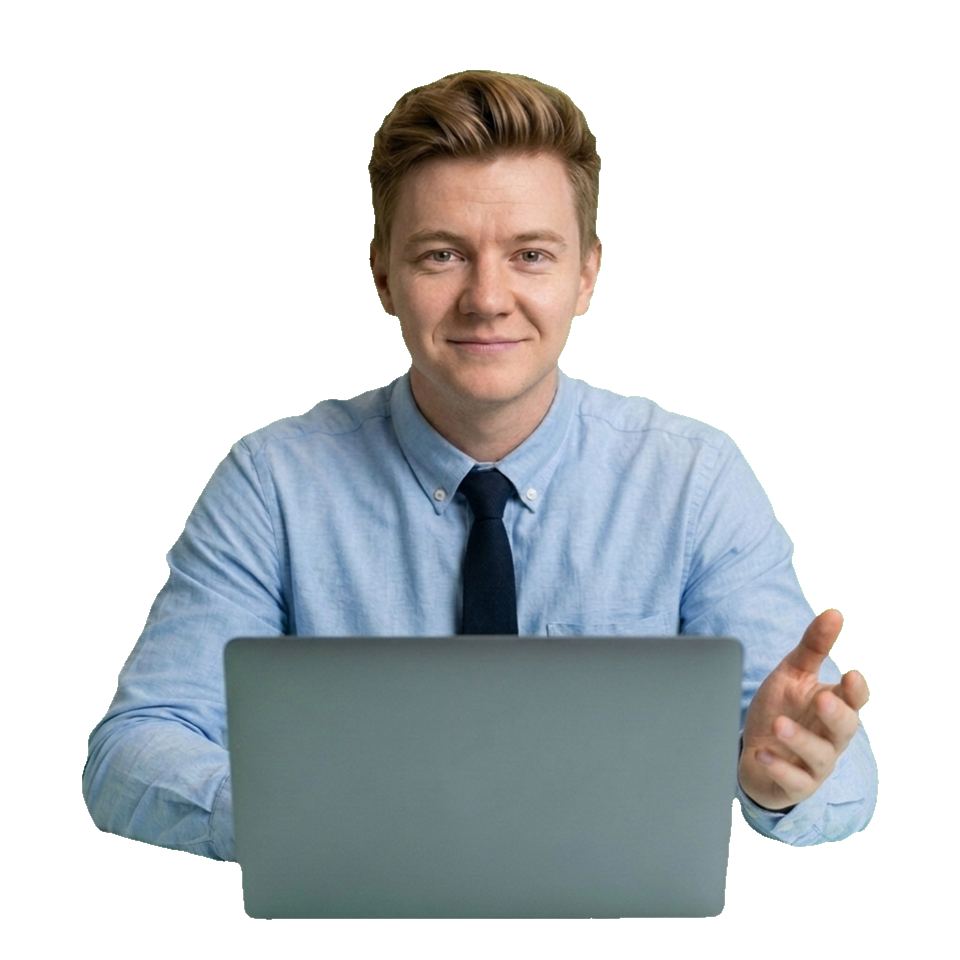
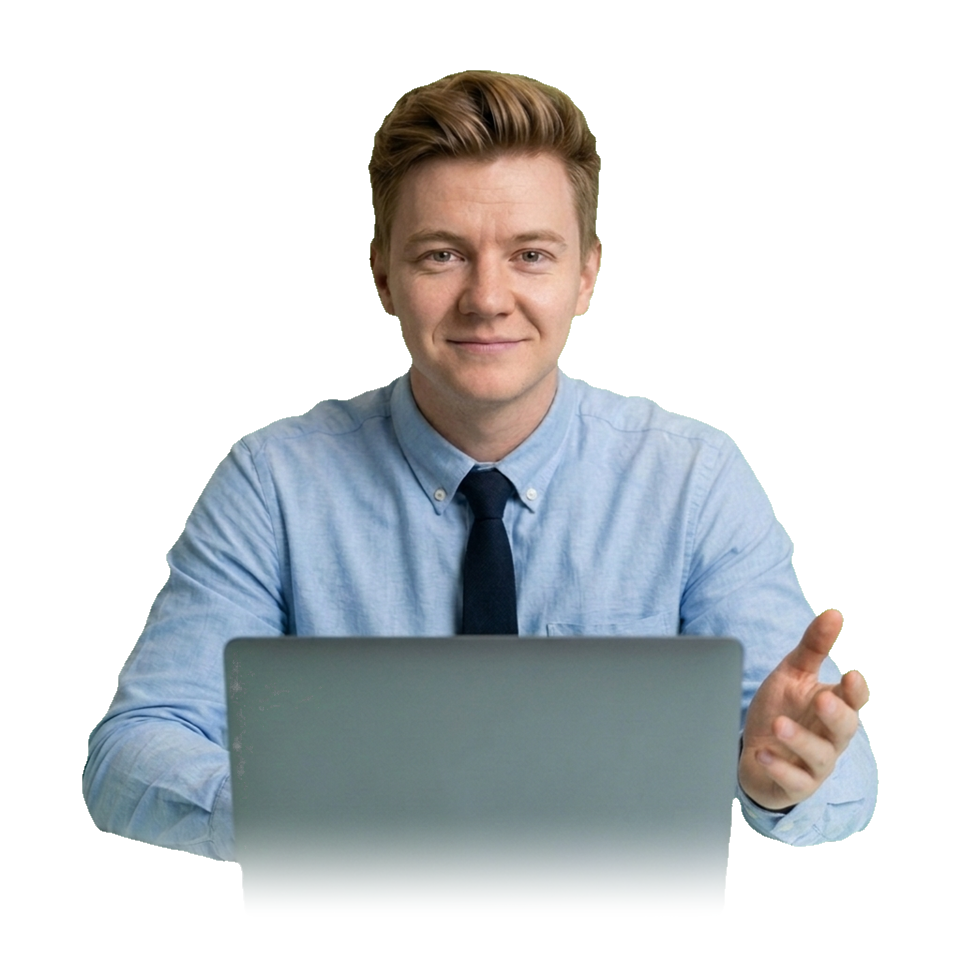
Refactor code structure for improved readability and maintainability

Changed region(s): [[0.125, 0.8438, 0.7812, 0.9688]]

diff --git a/src/components/landing/Cursor.jsx b/src/components/landing/Cursor.jsx
@@ -1,13 +1,12 @@
 import React, { useEffect, useRef, useState } from 'react';
 
 /**
- * Custom glowing brand-secondary (#5EEAD4) cursor that expands
- * over buttons and links. Automatically hidden on touch devices
- * and when prefers-reduced-motion is active.
+ * Simple, understated glowing cursor accent:
+ * Uses the native crisp OS pointer/hand cursor with a subtle soft
+ * brand-secondary (#5EEAD4) ambient glow that brightens gently on hover.
  */
 export default function Cursor({ disabled = false }) {
-  const ringRef = useRef(null);
-  const dotRef = useRef(null);
+  const glowRef = useRef(null);
   const visibleRef = useRef(false);
   const [isActive, setIsActive] = useState(false);
   const [visible, setVisible] = useState(false);
@@ -16,17 +15,12 @@ export default function Cursor({ disabled = false }) {
     if (disabled || typeof window === 'undefined') return undefined;
     if (!window.matchMedia('(pointer: fine)').matches) return undefined;
 
-    const pos = { x: -100, y: -100 };
-    const target = { x: -100, y: -100 };
-    let rafId = null;
-
     const onMove = (e) => {
-      target.x = e.clientX;
-      target.y = e.clientY;
+      if (glowRef.current) {
+        glowRef.current.style.transform = `translate3d(${e.clientX}px, ${e.clientY}px, 0) translate(-50%, -50%)`;
+      }
       if (!visibleRef.current) {
         visibleRef.current = true;
-        pos.x = e.clientX;
-        pos.y = e.clientY;
         setVisible(true);
       }
 
@@ -39,29 +33,15 @@ export default function Cursor({ disabled = false }) {
     const onLeave = () => {
       visibleRef.current = false;
       setVisible(false);
-    };
-
-    const loop = () => {
-      pos.x += (target.x - pos.x) * 0.2;
-      pos.y += (target.y - pos.y) * 0.2;
-
-      if (ringRef.current) {
-        ringRef.current.style.transform = `translate3d(${pos.x}px, ${pos.y}px, 0) translate(-50%, -50%)`;
-      }
-      if (dotRef.current) {
-        dotRef.current.style.transform = `translate3d(${target.x}px, ${target.y}px, 0) translate(-50%, -50%)`;
-      }
-      rafId = requestAnimationFrame(loop);
+      setIsActive(false);
     };
 
     window.addEventListener('mousemove', onMove, { passive: true });
     document.addEventListener('mouseleave', onLeave);
-    rafId = requestAnimationFrame(loop);
 
     return () => {
       window.removeEventListener('mousemove', onMove);
       document.removeEventListener('mouseleave', onLeave);
-      if (rafId) cancelAnimationFrame(rafId);
     };
   }, [disabled]);
 
@@ -70,22 +50,14 @@ export default function Cursor({ disabled = false }) {
   return (
     <div
       aria-hidden="true"
-      className={`pointer-events-none fixed inset-0 z-[90] hidden md:block transition-opacity duration-300 ${
+      className={`pointer-events-none fixed inset-0 z-[90] hidden md:block transition-opacity duration-200 ${
         visible ? 'opacity-100' : 'opacity-0'
       }`}
     >
       <div
-        ref={ringRef}
-        className={`fixed left-0 top-0 rounded-full transition-[width,height,background-color,box-shadow] duration-200 ease-out ${
-          isActive
-            ? 'h-12 w-12 border border-[#5EEAD4]/80 bg-[#5EEAD4]/15 shadow-[0_0_26px_rgba(94,234,212,0.45)]'
-            : 'h-7 w-7 border border-[#5EEAD4]/50 bg-[#5EEAD4]/10 shadow-[0_0_16px_rgba(94,234,212,0.25)]'
-        }`}
-      />
-      <div
-        ref={dotRef}
-        className={`fixed left-0 top-0 rounded-full bg-[#5EEAD4] transition-transform duration-150 ${
-          isActive ? 'h-2 w-2 scale-125' : 'h-1.5 w-1.5 scale-100'
+        ref={glowRef}
+        className={`fixed left-0 top-0 rounded-full bg-[#5EEAD4] blur-xl transition-[width,height,opacity] duration-200 ease-out ${
+          isActive ? 'h-12 w-12 opacity-25' : 'h-7 w-7 opacity-15'
         }`}
       />
     </div>

diff --git a/src/sections/HowItWorks.jsx b/src/sections/HowItWorks.jsx
@@ -7,6 +7,7 @@ import {
   Search,
   Sparkles,
   Users,
+  MessageSquare,
   Lightbulb,
   ArrowLeft,
   ArrowRight,
@@ -62,15 +63,27 @@ const STORY_STEPS = [
   },
   {
     num: '05',
+    emotion: 'Refinement',
+    accent: '#A855F7',
+    icon: MessageSquare,
+    title: '1-on-1 Follow-Up & Plan Refinement',
+    desc: 'Ask follow-up questions, challenge assumptions, and tailor every detail inside your private 1-on-1 room until the plan fits your exact constraints.',
+    dialogue: [
+      { who: 'You', text: '“What if our budget caps at $5k/mo?”' },
+      { who: 'Specialist', text: '“Switch to the 2-tier launch first—cuts burn by 60% while keeping trial conversion high.”' },
+    ],
+  },
+  {
+    num: '06',
     emotion: 'Success & Relief',
     accent: '#FACC15',
     icon: Lightbulb,
     title: 'Clear 24h Solution & Confident Action',
-    desc: 'Within 24 hours you have a step-by-step action plan, execute with confidence, solve the problem, and move forward relieved.',
+    desc: 'Within 24 hours you have a step-by-step action plan saved in your workspace—execute with confidence, solve the problem, and move forward relieved.',
     checklist: [
       'Root bottleneck diagnosed clearly',
       'Prioritized 14-day action roadmap',
-      'Direct follow-up support included',
+      'Saved in your workspace for anytime review',
     ],
   },
 ];
@@ -124,7 +137,7 @@ export default function HowItWorks({ isMobile = false, reducedMotion = false }) 
       stRef.current = ScrollTrigger.create({
         trigger: sectionRef.current,
         start: 'top top',
-        end: '+=300%',
+        end: '+=340%',
         pin: true,
         scrub: 0.75,
         anticipatePin: 1,
@@ -244,7 +257,7 @@ export default function HowItWorks({ isMobile = false, reducedMotion = false }) 
                     Step {current.num} · {current.emotion}
                   </span>
                   <span className="font-display text-xs font-bold text-[#A9A4C8]">
-                    {current.num} / 05
+                    {current.num} / {String(STORY_STEPS.length).padStart(2, '0')}
                   </span>
                 </div>
 
@@ -304,6 +317,26 @@ export default function HowItWorks({ isMobile = false, reducedMotion = false }) 
                       <Cpu className="h-4 w-4" />
                       <span>AI Solution</span>
                     </button>
+                  </div>
+                )}
+
+                {current.dialogue && (
+                  <div className="space-y-2.5 pt-1">
+                    {current.dialogue.map((msg) => (
+                      <div
+                        key={msg.who}
+                        className={`rounded-2xl border px-3.5 py-2.5 text-xs sm:text-sm ${
+                          msg.who === 'You'
+                            ? 'border-[#4C4585]/60 bg-[#0A0816]/80 text-[#F5F3FF]'
+                            : 'border-[#A855F7]/45 bg-[#A855F7]/12 text-[#F5F3FF]'
+                        }`}
+                      >
+                        <span className="mr-2 font-semibold text-[#5EEAD4]">
+                          {msg.who}:
+                        </span>
+                        <span>{msg.text}</span>
+                      </div>
+                    ))}
                   </div>
                 )}
 

diff --git a/src/three/useHumanStore.js b/src/three/useHumanStore.js
@@ -2,29 +2,34 @@ import { useSyncExternalStore } from 'react';
 
 export const POSE_IMAGES = {
   stressed: {
-    color: '/images/man-stressed.png',
-    depth: '/images/man-stressed-depth.png',
+    color: '/images/man-stressed.png?v=6',
+    depth: '/images/man-stressed-depth.png?v=6',
     alt: 'Overwhelmed man holding his head behind his laptop',
   },
   searching: {
-    color: '/images/man-searching.png',
-    depth: '/images/man-searching-depth.png',
+    color: '/images/man-searching.png?v=6',
+    depth: '/images/man-searching-depth.png?v=6',
     alt: 'Frustrated man searching endlessly across tabs on his laptop',
   },
   typing: {
-    color: '/images/man-typing.png',
-    depth: '/images/man-typing-depth.png',
+    color: '/images/man-typing.png?v=6',
+    depth: '/images/man-typing-depth.png?v=6',
     alt: 'Man focused and typing his thought onto OverThink',
   },
   choosing: {
-    color: '/images/man-choosing.png',
-    depth: '/images/man-choosing-depth.png',
+    color: '/images/man-choosing.png?v=6',
+    depth: '/images/man-choosing-depth.png?v=6',
     alt: 'Man attentively engaging with consultant and AI guidance',
   },
+  refining: {
+    color: '/images/man-refining.png?v=6',
+    depth: '/images/man-refining-depth.png?v=6',
+    alt: 'Man collaborating 1-on-1 to refine and pressure-test his plan',
+  },
   relieved: {
-    color: '/images/man-relieved.png',
-    depth: '/images/man-relieved-depth.png',
-    alt: 'Relieved and smiling man after receiving a clear 24-hour solution',
+    color: '/images/man-relieved.png?v=7',
+    depth: '/images/man-relieved-depth.png?v=7',
+    alt: 'Relieved and smiling man celebrating a clear 24-hour solution',
   },
 };
 
@@ -32,8 +37,8 @@ export const STEP_PRESETS = [
   {
     key: 'step-1',
     pose: 'stressed',
-    position: [0, -0.08, 0],
-    scale: 1.48,
+    position: [0, -0.06, 0],
+    scale: 1.56,
     rotationY: 0,
     glowColor: '#F472B6',
     intensity: 1.0,
@@ -41,8 +46,8 @@ export const STEP_PRESETS = [
   {
     key: 'step-2',
     pose: 'searching',
-    position: [0, -0.08, 0],
-    scale: 1.5,
+    position: [0, -0.06, 0],
+    scale: 1.58,
     rotationY: 0,
     glowColor: '#A855F7',
     intensity: 1.05,
@@ -50,8 +55,8 @@ export const STEP_PRESETS = [
   {
     key: 'step-3',
     pose: 'typing',
-    position: [0, -0.08, 0],
-    scale: 1.5,
+    position: [0, -0.06, 0],
+    scale: 1.58,
     rotationY: 0,
     glowColor: '#5EEAD4',
     intensity: 1.1,
@@ -59,17 +64,26 @@ export const STEP_PRESETS = [
   {
     key: 'step-4',
     pose: 'choosing',
-    position: [0, -0.08, 0],
-    scale: 1.5,
+    position: [0, -0.06, 0],
+    scale: 1.56,
     rotationY: 0,
     glowColor: '#5EEAD4',
     intensity: 1.15,
   },
   {
     key: 'step-5',
-    pose: 'relieved',
+    pose: 'refining',
     position: [0, -0.06, 0],
-    scale: 1.54,
+    scale: 1.56,
+    rotationY: 0,
+    glowColor: '#A855F7',
+    intensity: 1.2,
+  },
+  {
+    key: 'step-6',
+    pose: 'relieved',
+    position: [0, -0.04, 0],
+    scale: 1.64,
     rotationY: 0,
     glowColor: '#FACC15',
     intensity: 1.3,

diff --git a/src/three/RealHumanStage.jsx b/src/three/RealHumanStage.jsx
@@ -45,7 +45,7 @@ function LocalFallback({ reducedMotion = false }) {
   return (
     <div className="pointer-events-none absolute inset-0 flex items-center justify-center">
       <div
-        className="relative w-72 sm:w-88 lg:w-[390px] transition-transform duration-200"
+        className="relative w-64 sm:w-80 lg:w-[370px] transition-transform duration-200"
         style={{
           transform: `perspective(950px) rotateX(${tilt.x}deg) rotateY(${tilt.y}deg)`,
         }}
@@ -74,10 +74,14 @@ export default function RealHumanStage({
 }) {
   return (
     <div className="relative h-[310px] w-full sm:h-[400px] lg:h-[460px] xl:h-[520px]">
+      <div
+        aria-hidden="true"
+        className="pointer-events-none absolute inset-x-10 bottom-2 z-20 h-16 rounded-full bg-gradient-to-t from-[#0A0816] via-[#0A0816]/70 to-transparent blur-md"
+      />
       <LocalFallback reducedMotion={reducedMotion} />
       <StageErrorBoundary fallback={<LocalFallback reducedMotion={reducedMotion} />}>
         <Canvas
-          camera={{ position: [0, 0, 4.8], fov: 42, near: 0.1, far: 25 }}
+          camera={{ position: [0, 0, 5.75], fov: 42, near: 0.1, far: 25 }}
           dpr={isMobile ? [1, 1.25] : [1, 1.75]}
           gl={{ antialias: !isMobile, alpha: true, powerPreference: 'high-performance' }}
           style={{ width: '100%', height: '100%', pointerEvents: 'none' }}

diff --git a/src/three/RealHuman3D.jsx b/src/three/RealHuman3D.jsx
@@ -32,7 +32,7 @@ const FRAGMENT_SHADER = /* glsl */ `
     vec4 colB = texture2D(uTexB, vUv);
     vec4 col = mix(colA, colB, uMix);
 
-    if (col.a < 0.04) discard;
+    if (col.a < 0.004) discard;
 
     gl_FragColor = vec4(col.rgb, col.a);
     #include <colorspace_fragment>
@@ -129,7 +129,7 @@ export default function RealHuman3D({
   useEffect(() => {
     let cancelled = false;
     const loader = new THREE.TextureLoader();
-    const order = ['stressed', 'searching', 'typing', 'choosing', 'relieved'];
+    const order = ['stressed', 'searching', 'typing', 'choosing', 'refining', 'relieved'];
     const createdTextures = [];
 
     order.forEach((key) => {

diff --git a/src/components/landing/Navbar.jsx b/src/components/landing/Navbar.jsx
@@ -136,7 +136,7 @@ export default function Navbar({
               className="inline-flex items-center gap-1.5 rounded-xl border border-[#4C4585]/60 bg-[#15122B]/70 px-3 py-2 sm:border-transparent sm:bg-transparent sm:px-3.5 text-xs sm:text-sm font-semibold text-[#F5F3FF] sm:text-[#A9A4C8] transition hover:border-[#5EEAD4]/60 hover:bg-[#15122B]/70 hover:text-[#F5F3FF]"
             >
               <User className="h-3.5 w-3.5 text-[#5EEAD4] sm:text-current" />
-              <span>Sign In</span>
+              <span className="whitespace-nowrap">Sign In</span>
             </button>
           )}
 

diff --git a/src/main.jsx b/src/main.jsx
@@ -3,6 +3,17 @@ import { createRoot } from 'react-dom/client'
 import './index.css'
 import App from './App.jsx'
 
+if (typeof window !== 'undefined') {
+  if ('scrollRestoration' in window.history) {
+    window.history.scrollRestoration = 'manual';
+  }
+  window.addEventListener(
+    'pageshow',
+    () => window.requestAnimationFrame(() => window.scrollTo(0, 0)),
+    { once: true },
+  );
+}
+
 // Force browser tab and credential managers to refresh the Option 2 favicon
 if (typeof document !== 'undefined') {
   const updateFavicon = () => {
